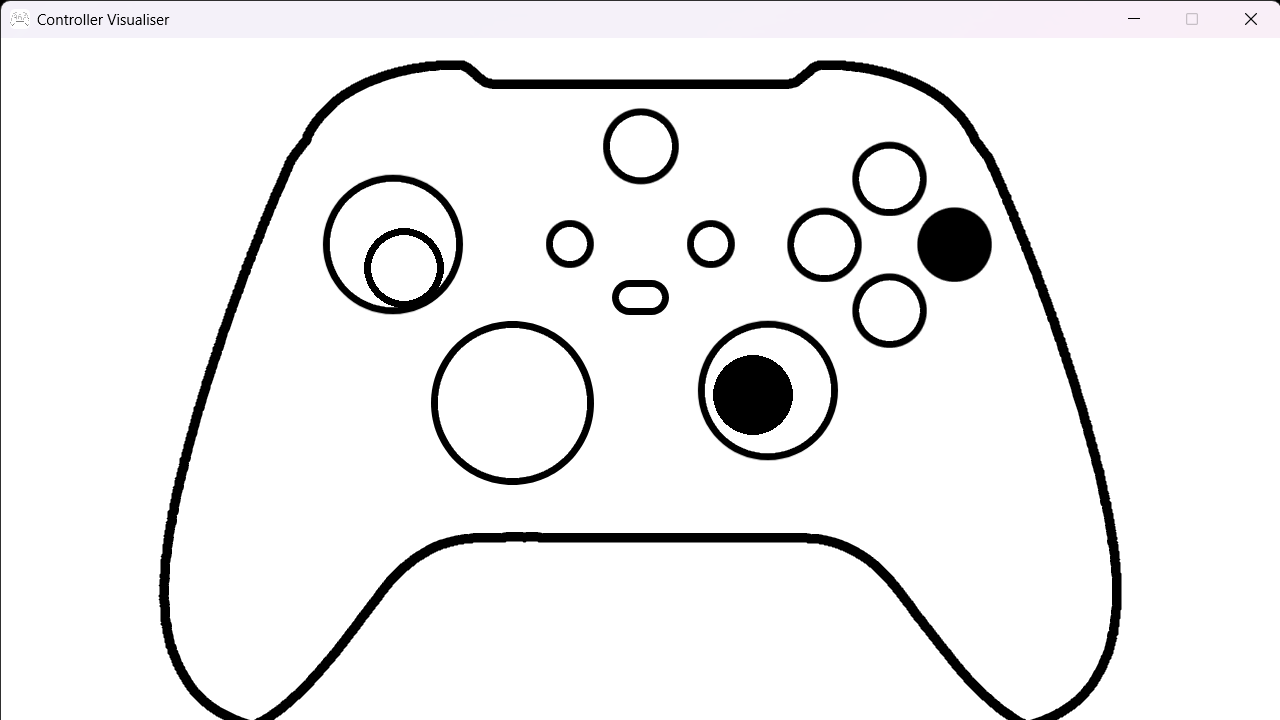
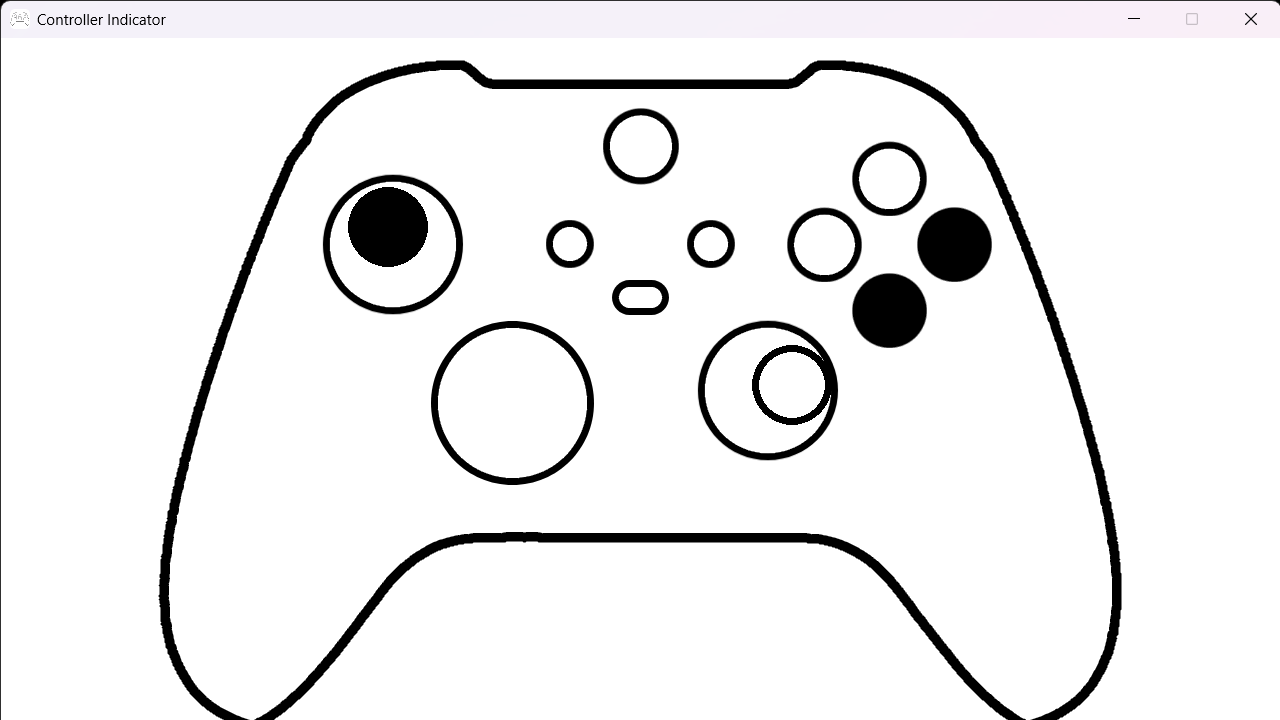
Updated `docs` folder

diff --git a/main.py b/main.py
@@ -9,7 +9,7 @@ background = pygame.image.load("assets/controller.png")
 
 pygame.display.set_icon(icon)
 window = pygame.display.set_mode((1280, 720))
-pygame.display.set_caption("Controller Visualiser")
+pygame.display.set_caption("Controller Indicator")
 
 while True:
     for event in pygame.event.get():
